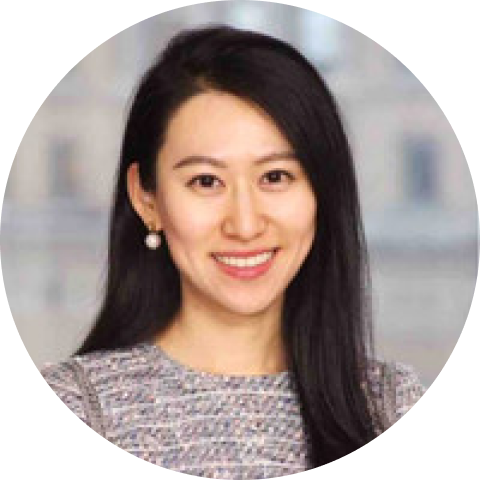
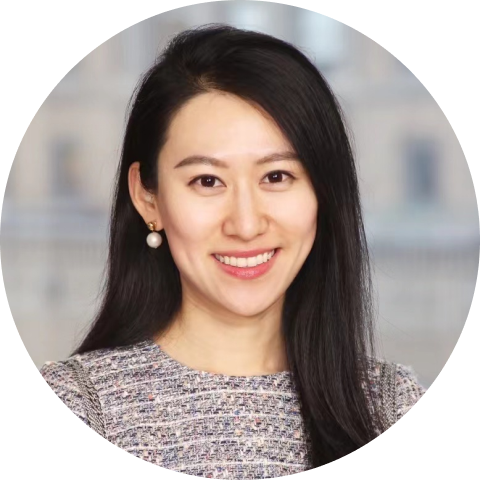
邹鲁秦 图片替换，陈昊楠图片替换   √ UFA 青年会上面需要替换2X   √ 往期回顾 换2x   √ ufa创始团队 宽度310   √ 合作伙伴 2X图   √ 联系我们2x   √ 向上兼容性调整 二维码距离底部 间距   √ 选中和移入加粗 用户昵称 下拉菜单 改为移入，取消点击，下来菜单改为圆角   √ 取消用户昵称向下箭头，整体移动到下拉箭头处   √ 报名参赛 移入效果改为向上移动4px，报名参赛移入效果，不从顶上移入，改为 上方24px左右移入，并带有透明度改变 了解赛事和报名参赛一致 往期回顾，按钮移入选中 变 #2A2B30 按钮切换效果  滑动 往期回顾  按钮投影 

diff --git a/src/components/webpage/previousReview/previousreview.jsx b/src/components/webpage/previousReview/previousreview.jsx
@@ -105,6 +105,22 @@ const Review = ({ projectImgs }) => {
       url:"/review/review_21.png",
       alt:"22",
     },
+    {
+      url:"/review/review_22.png",
+      alt:"23",
+    },
+    {
+      url:"/review/review_23.png",
+      alt:"24",
+    },
+    {
+      url:"/review/review_24.png",
+      alt:"25",
+    },
+    {
+      url:"/review/review_25.png",
+      alt:"26",
+    },
   ];
 
   const Openvideo = () => {
@@ -126,7 +142,7 @@ const Review = ({ projectImgs }) => {
     <>
       <div className="text-center" style={{ paddingTop: "120px" }}>
         <Image
-          src="/homeCutout/Group 77.png"
+          src="/homeCutout/Group 77@2x.png"
           style={{ width: "248px", height: "79px" }}
         />
       </div>
@@ -143,6 +159,8 @@ const Review = ({ projectImgs }) => {
                 : "#FFFFFF",
               border: "none",
               fontFamily: "MicrosoftYaHei",
+              boxShadow: "0px 1px 2px 1px rgb(35 97 255 / 8%), 0px 2px 4px 1px rgb(35 97 255 / 8%), 0px 4px 8px 1px rgb(35 97 255 / 8%), 0px 8px 16px 1px rgb(35 97 255 / 8%), 0px 16px 32px 1px rgb(35 97 255 / 8%)"
+
             }}
             onClick={Openvideo}
           >
@@ -155,6 +173,8 @@ const Review = ({ projectImgs }) => {
                 lineHeight: "24px",
                 color: video ? "#FFFFFF" : "#9C9EAC",
                 fontWeight: video ? "bold" : "400",
+                boxShadow: "0px 1px 2px 1px rgb(35 97 255 / 8%), 0px 2px 4px 1px rgb(35 97 255 / 8%), 0px 4px 8px 1px rgb(35 97 255 / 8%), 0px 8px 16px 1px rgb(35 97 255 / 8%), 0px 16px 32px 1px rgb(35 97 255 / 8%)"
+
               }}
             >
               活动视频
@@ -169,6 +189,8 @@ const Review = ({ projectImgs }) => {
                 : "#FFFFFF",
               border: "none",
               fontFamily: "MicrosoftYaHei",
+              boxShadow: "0px 1px 2px 1px rgb(35 97 255 / 8%), 0px 2px 4px 1px rgb(35 97 255 / 8%), 0px 4px 8px 1px rgb(35 97 255 / 8%), 0px 8px 16px 1px rgb(35 97 255 / 8%), 0px 16px 32px 1px rgb(35 97 255 / 8%)"
+
               // borderBlockEndWidth: "5px",
               // borderBlockEndColor: image ? "#26409A" : "white",
             }}
@@ -183,6 +205,8 @@ const Review = ({ projectImgs }) => {
                 lineHeight: "24px",
                 color: image ? "#FFFFFF" : "#9C9EAC",
                 fontWeight: image ? "bold" : "400",
+                boxShadow: "0px 1px 2px 1px rgb(35 97 255 / 8%), 0px 2px 4px 1px rgb(35 97 255 / 8%), 0px 4px 8px 1px rgb(35 97 255 / 8%), 0px 8px 16px 1px rgb(35 97 255 / 8%), 0px 16px 32px 1px rgb(35 97 255 / 8%)"
+
               }}
             >
               赛事图集

diff --git a/src/components/webpage/Aboutus/about-us.jsx b/src/components/webpage/Aboutus/about-us.jsx
@@ -69,7 +69,7 @@ const Aboutus = ({ profileImg, hobbyImgs }) => {
               letterSpacing: "0.2px",
             }}
           >
-           UFA金融协会 (英文缩写"UFA") 是面向全球顶级高校（包括美国排名TOP30、中国内地TOP10、中国香港四大高校等）建立的首个跨学校，跨地区，跨文化的大学生金融协会。我们的愿景是“助力祖国联合全球和华人金融精英，并共同建设祖国金融未来”。</p>
+           UFA青年会 (英文缩写"UFA") 是面向全球顶级高校（包括美国排名TOP30、中国内地TOP10、中国香港四大高校等）建立的首个跨学校，跨地区，跨文化的大学生金融协会。我们的愿景是“助力祖国联合全球和华人金融精英，并共同建设祖国金融未来”。</p>
           <br />
           <p
             className="bottom-angle"
@@ -82,7 +82,7 @@ const Aboutus = ({ profileImg, hobbyImgs }) => {
               letterSpacing: "1px",
             }}
           >
-           自成立以来，UFA金融协会与中信证券、海外超过100所高校等建立起合作关系，并联合策划了名家分享会，金融系列公益讲座、全球大学生投资大赛等多个活动。“UFA杯: 全球大学模拟投资大赛”是由 UFA ⾦融协会牵头发起的首个汇聚全球顶尖高校大学生的大型线上模拟投资比赛。</p>
+           自成立以来，UFA青年会与中信证券、海外超过100所高校等建立起合作关系，并联合策划了名家分享会，金融系列公益讲座、全球大学生投资大赛等多个活动。“UFA杯: 全球大学模拟投资大赛”是由 UFA ⾦融协会牵头发起的首个汇聚全球顶尖高校大学生的大型线上模拟投资比赛。</p>
           <div className="right-icon">
             <Image
               src="/homeCutout/Group 172@2x.png"
@@ -507,7 +507,7 @@ const Aboutus = ({ profileImg, hobbyImgs }) => {
                 fontSize: "14px",
                 fontWeight: "600",
                 lineHeight: "16px",
-                fontFamily: "PingFang SC-Semibold, PingFang SC",
+                fontFamily: "Microsoft YaHei UI-Bold",
               }}
               variant="outline-primary"
               size="lg"

diff --git a/src/components/MainPage/header.jsx b/src/components/MainPage/header.jsx
@@ -533,8 +533,9 @@ const HeaderCreate = ({ toggle }) => {
                     padding: "0px",
                   }}
                   onMouseLeave={() => handleShowMenu(false)}
+                  onMouseEnter={() => handleShowMenu(true)}
                 >
-                  <div className="user-av" onClick={() => handleShowMenu(true)}>
+                  <div className="user-av">
                     <Image
                       src={"/loginback.jpg"}
                       style={{
@@ -556,19 +557,19 @@ const HeaderCreate = ({ toggle }) => {
                     >
                       {user.username}
                     </span>
-                    <ExpandMoreIcon
-                      style={{
-                        color: scrolledDownEnough
-                          ? "#2A2B30"
-                          : url != "/" && url != "/tournament"
-                          ? "#2A2B30"
-                          : "#FFFFFF",
-                      }}
-                    ></ExpandMoreIcon>
+                    {/*<ExpandMoreIcon*/}
+                    {/*  style={{*/}
+                    {/*    color: scrolledDownEnough*/}
+                    {/*      ? "#2A2B30"*/}
+                    {/*      : url != "/" && url != "/tournament"*/}
+                    {/*      ? "#2A2B30"*/}
+                    {/*      : "#FFFFFF",*/}
+                    {/*  }}*/}
+                    {/*></ExpandMoreIcon>*/}
                   </div>
                   <div
                     className="header-user-menu"
-                    style={{ display: showMenu ? "flex" : "none" }}
+                    style={{ display: showMenu ? "flex" : "none",borderRadius:"4px" }}
                     // onMouseEnter={handleMouseLeave}
                   >
                     <MenuItemLinksRouter

diff --git a/src/components/webpage/Cover/cover.jsx b/src/components/webpage/Cover/cover.jsx
@@ -65,7 +65,7 @@ export default function Cover() {
           <div className="wrapper">
             {width > 800 ? (
               <Image
-                src="/homeCutout/Group 173.png"
+                src="/homeCutout/Group 173@2x.png"
                 style={{
                   width: width * 0.3229,
                   height: width * 0.026,
@@ -110,7 +110,7 @@ export default function Cover() {
                 fontWeight:"bold"
               }}
             >
-              金融协会
+              青年会
             </span>
           </div>
                 <div
@@ -126,6 +126,7 @@ export default function Cover() {
                         variant="primary"
                         size="sm"
                         onClick={() => sendUser()}
+                        style={{fontWeight:"600",fontFamily:"Microsoft YaHei UI-Bold"}}
                     >
                         报名参赛
                     </Button>
@@ -159,7 +160,7 @@ export default function Cover() {
                   fontWeight: "bold",
                 }}
               >
-                金融协会
+                  青年会
               </div>
             </div>
             <div

diff --git a/src/components/webpage/Contacts/contacts.jsx b/src/components/webpage/Contacts/contacts.jsx
@@ -14,7 +14,7 @@ const Contacts = () => {
     <div className="section" style={{ padding: "120px 0px 0px 0px" }}>
       <div className="text-center">
         <Image
-          src="/homeCutout/Group 81.png"
+          src="/homeCutout/Group 81@2x.png"
           style={{ width: "248px", height: "79px" }}
         />
       </div>
@@ -305,13 +305,13 @@ const Contacts = () => {
         <div className="section" style={{ padding: " 120px 0px" }}>
           <div className="text-center">
             <Image
-              src="/homeCutout/Group 127.png"
+              src="/homeCutout/Group 127@2x.png"
               style={{ width: "248px", height: "79px" }}
             />
           </div>
 
           <div className="text-center" style={{ paddingTop: "80px" }}>
-            <div>
+            <div style={{marginBottom:"43px"}}>
               <Image
                 src="/corpo.png"
                 style={{ width: "160px", height: "160px", marginRight: "40px" }}

diff --git a/src/components/webpage/Executive/executive.jsx b/src/components/webpage/Executive/executive.jsx
@@ -15,7 +15,7 @@ export default function Executive() {
             <div className="text-center">
                 <Image
                     src="/homeCutout/Group 1097@2x.png"
-                    style={{width: "286px", height: "79px"}}
+                    style={{width: "310px", height: "79px"}}
                 />
             </div>
 

diff --git a/src/components/MainPage/HeaderElements.jsx b/src/components/MainPage/HeaderElements.jsx
@@ -96,7 +96,7 @@ export const HeaderContianer = styled.div`
 `;
 
 export const HeaderMenu = styled.div`
-  margin-left: 21.7%;
+  margin-left: 19%;
   display: flex;
   height: 64px;
   justify-content: center;
